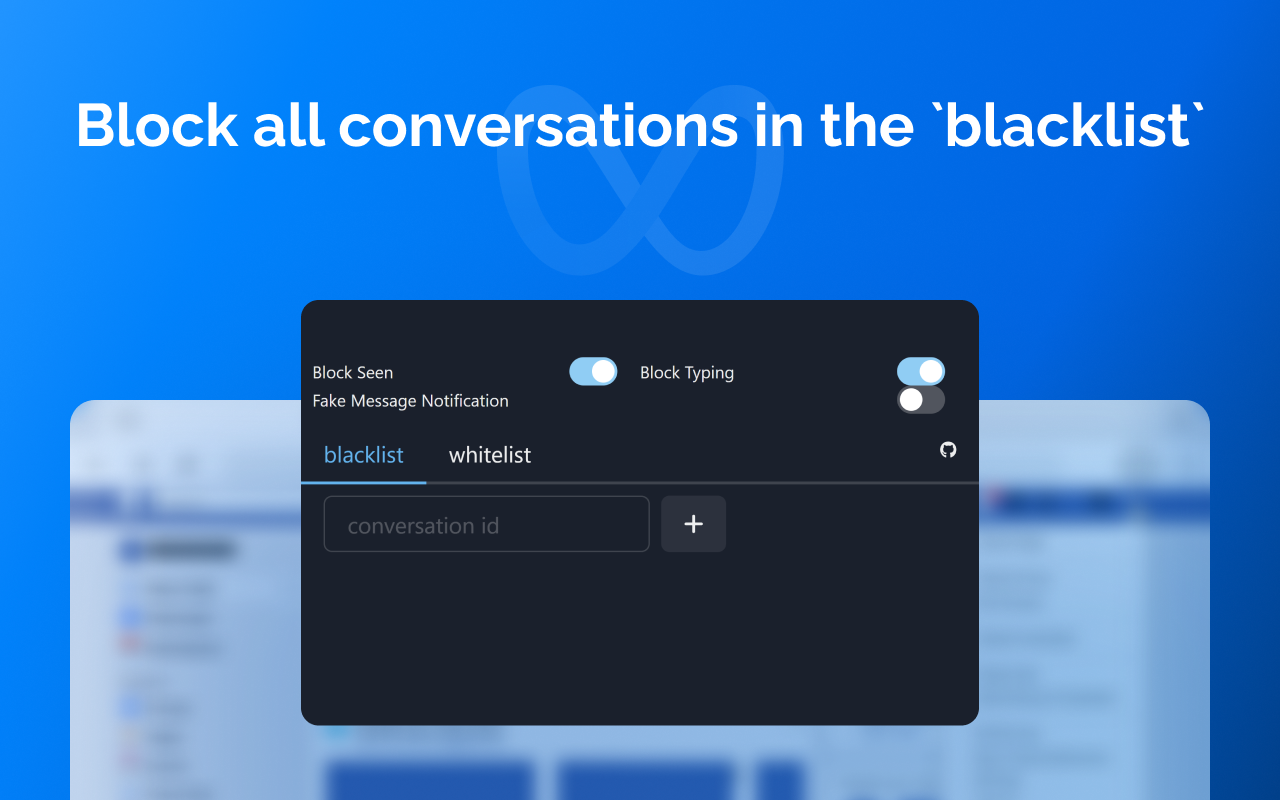
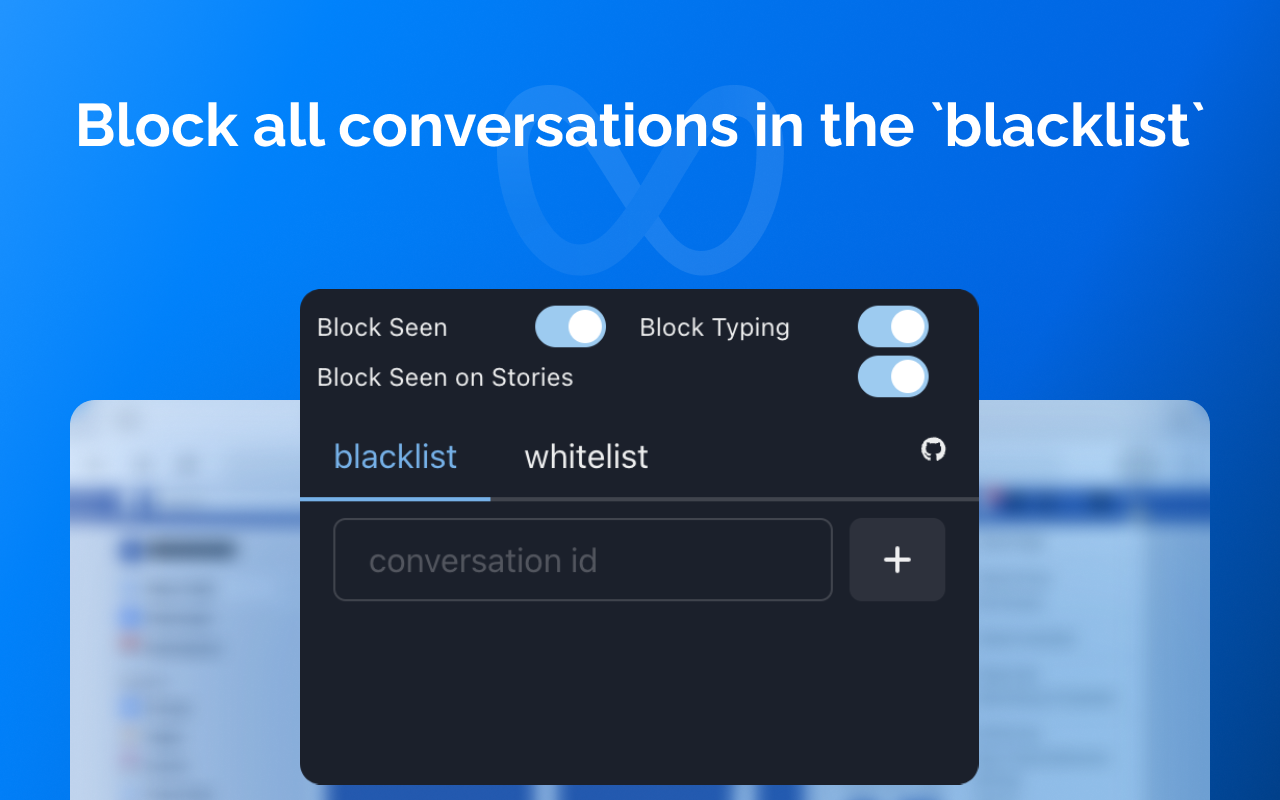
chore: update readme

diff --git a/readme.md b/readme.md
@@ -21,7 +21,9 @@ Just reverse the name for Meta. :v
 
 - Block seen in chat
 - Block typing in chat
+- Block seen in stories
 - Two blocking modes: `blacklist` and `whitelist`
   - In `blacklist` mode: block all conversations in the `blacklist`
   - In `whitelist` mode: block all conversations not in the `whitelist`
-- Create fake message notifications (In Firefox, for some reason, can't get notifications from Facebook)
+- Working in end-to-end conversations
+- Check more detailed usage [here](https://github.com/Sherly1001/tame/wiki/How-to-Use-Tame)
